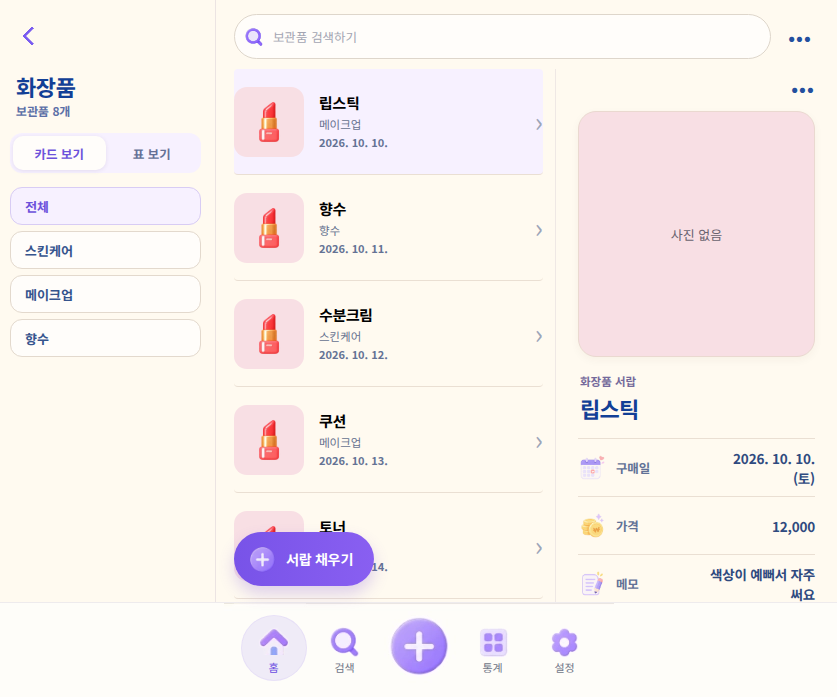
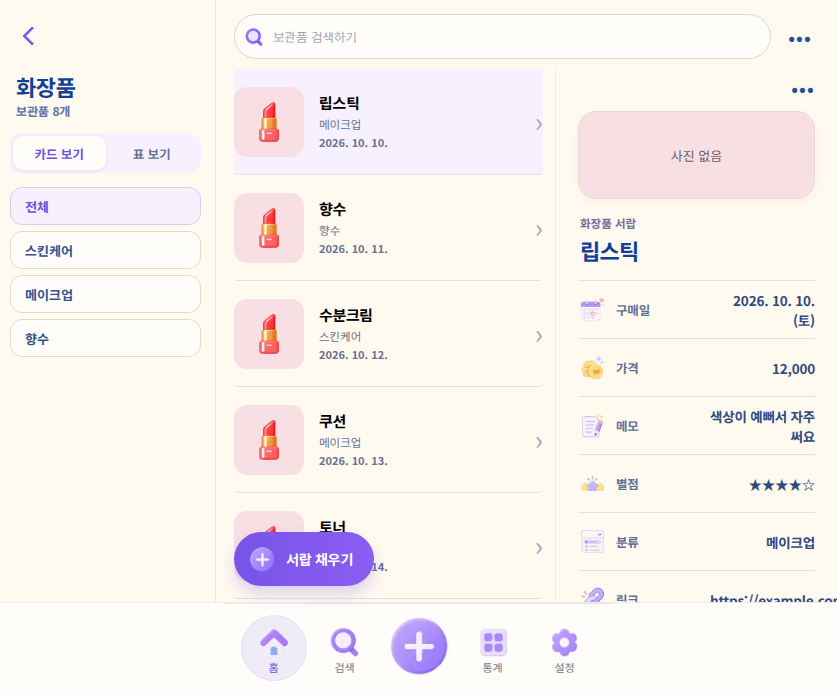
Wide drawer: slim placeholder when the chosen item has no photo
Claude-Session: https://claude.ai/code/session_01GjqJbS89D4DFQDLTKoRXvw

Changed region(s): [[0.6834, 0.2712, 0.994, 0.8737], [0.8387, 0.5725, 1.0, 0.8737], [0.8076, 0.2109, 0.8698, 0.241]]

diff --git a/drawary-v2/src/screens/RecordDetailScreen.tsx b/drawary-v2/src/screens/RecordDetailScreen.tsx
@@ -159,7 +159,7 @@ export function RecordDetailScreen({
             <img src={photoUri} alt={t('{title} 사진', { title })} />
           </button>
         ) : (
-          <div className="rd-photo"><div className="rd-photo-empty">{t('사진 없음')}</div></div>
+          <div className={`rd-photo${embedded ? ' is-empty' : ''}`}><div className="rd-photo-empty">{t('사진 없음')}</div></div>
         )}
 
         <div className="rd-heading">

diff --git a/drawary-v2/src/wide/wide.css b/drawary-v2/src/wide/wide.css
@@ -103,3 +103,5 @@
 .wide-app--land .tv-screen--fill .tv-table th, .wide-app--land .tv-screen--fill .tv-table td { height: 38px; }
 .wide-app--land .tv-screen--fill .tv-table-shell { margin-bottom: 6px; }
 .wd-detail .rd-content { max-width: 760px; }
+/* no photo: a slim placeholder, so the item's fields start higher instead of under a big empty box */
+.rd-screen--embedded .rd-photo.is-empty { height: 88px; }
